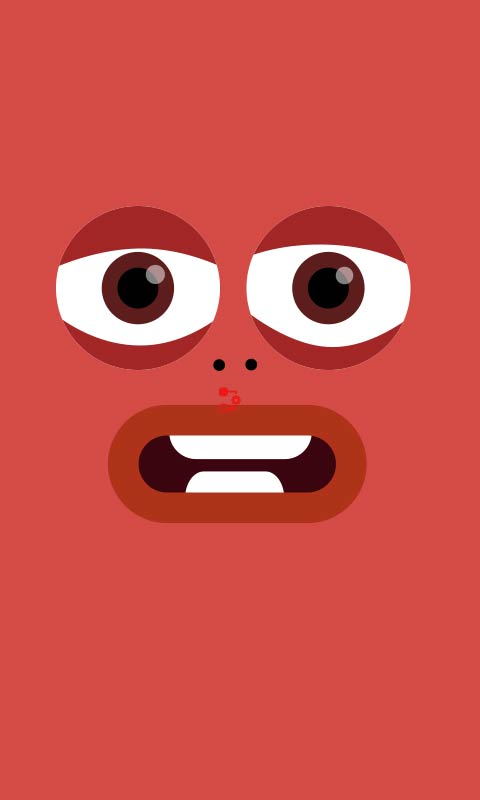
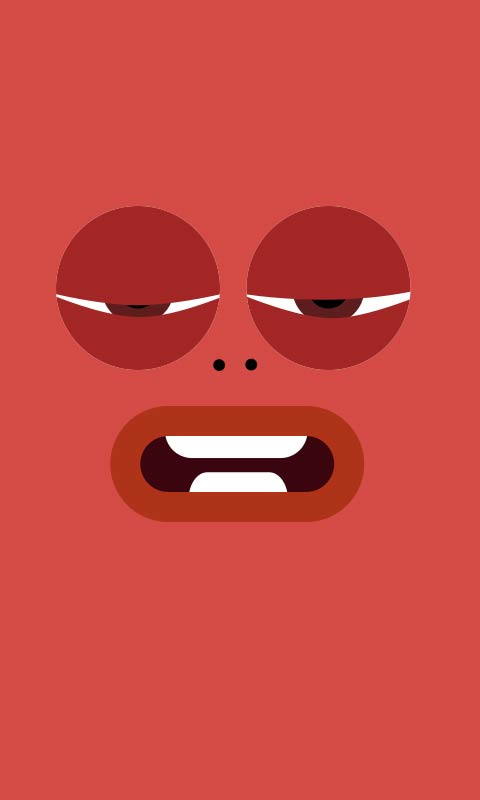
1차 완성

diff --git a/sprite.py b/sprite.py
@@ -1,7 +1,7 @@
 import pygame, sys, random
 
 # Player클래스는 Blink 클래스로 수정하자 프로그램 실행 시 눈 계속 깜빡이게 
-class Player(pygame.sprite.Sprite):
+class Bagic(pygame.sprite.Sprite):
     def __init__(self):
         super().__init__()
         self.sprites = []
@@ -63,6 +63,40 @@ class Surpring(pygame.sprite.Sprite):
 
             self.image = self.sprites[int(self.current_sprite)]
 
+class Happy(pygame.sprite.Sprite):
+    def __init__(self):
+        super().__init__()
+        self.sprites = []
+        self.is_animating = False
+        self.sprites.append(pygame.image.load("./happy/1.jpg"))
+        self.sprites.append(pygame.image.load("./happy/1.jpg"))
+        self.sprites.append(pygame.image.load("./happy/2.jpg"))
+        self.sprites.append(pygame.image.load("./happy/3.jpg"))
+        self.sprites.append(pygame.image.load("./happy/4.jpg"))
+        self.sprites.append(pygame.image.load("./happy/5.jpg"))
+        self.sprites.append(pygame.image.load("./happy/6.jpg"))
+        self.sprites.append(pygame.image.load("./happy/7.jpg"))
+        self.sprites.append(pygame.image.load("./happy/8.jpg"))
+        self.sprites.append(pygame.image.load("./happy/9.jpg"))
+        
+        self.current_sprite = 0
+        self.image = self.sprites[self.current_sprite]
+
+        self.rect = self.image.get_rect()
+
+    def animate(self):
+        self.is_animating = True
+
+    
+    def update(self):
+        if self.is_animating == True:
+            self.current_sprite += 0.35
+            if self.current_sprite >= len(self.sprites):
+                self.current_sprite = 0
+                self.is_animating = False
+
+            self.image = self.sprites[int(self.current_sprite)]
+
 
 
 
@@ -79,13 +113,13 @@ class Hand(pygame.sprite.Sprite):
     def update(self):
         self.rect.center = pygame.mouse.get_pos()
         
-class Cheeks(pygame.sprite.Sprite):
-    def __init__(self,picture_path):
-        super().__init__()
-        self.image = pygame.image.load(picture_path)
-        self.rect = self.image.get_rect()
-
-        # 이 클래스로 만들어질 객체는 마우스 따라 움직이지 않고, 제자리에 고정됨
+#class Cheeks(pygame.sprite.Sprite):
+#    def __init__(self,picture_path):
+#        super().__init__()
+#        self.image = pygame.image.load(picture_path)
+#        self.rect = self.image.get_rect()
+#
+#        # 이 클래스로 만들어질 객체는 마우스 따라 움직이지 않고, 제자리에 고정됨
         
 
 
@@ -121,10 +155,15 @@ surprising_sprites = pygame.sprite.Group()
 surprising = Surpring()
 surprising_sprites.add(surprising)
 
-# Player
+# Bagic
 moving_sprites = pygame.sprite.Group()
-player = Player()
+player = Bagic()
 moving_sprites.add(player)
+
+# Happy
+happy_sprites = pygame.sprite.Group()
+happy = Happy()
+happy_sprites.add(happy)
 
 while True:
     for event in pygame.event.get():
@@ -134,6 +173,11 @@ while True:
        
         if event.type == pygame.MOUSEBUTTONDOWN:
             hand.giggling()
+            happy.animate() # excute just Once!
+            happy_sprites.draw(screen)
+            happy_sprites.update()
+
+            
         
                 
         # if event.type == pygame.KEYBOARDUP: && keypress 'S'
@@ -153,6 +197,11 @@ while True:
                 surprising_sprites.draw(screen)
                 surprising_sprites.update()
 
+    if event.type == pygame.MOUSEBUTTONDOWN:
+            hand.giggling()
+            happy.animate() # excute just Once!
+            happy_sprites.draw(screen)
+            happy_sprites.update()
     
   
     hand_group.draw(screen)
